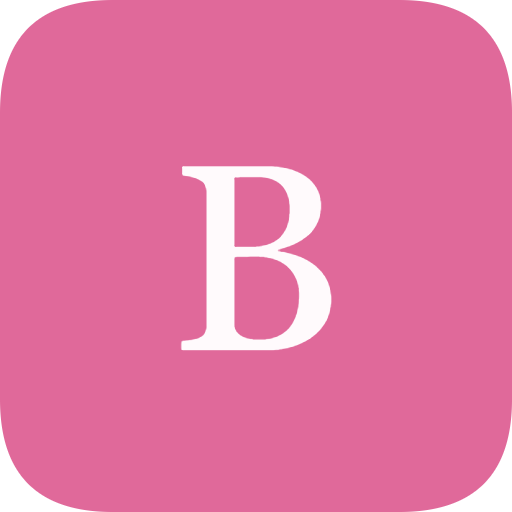
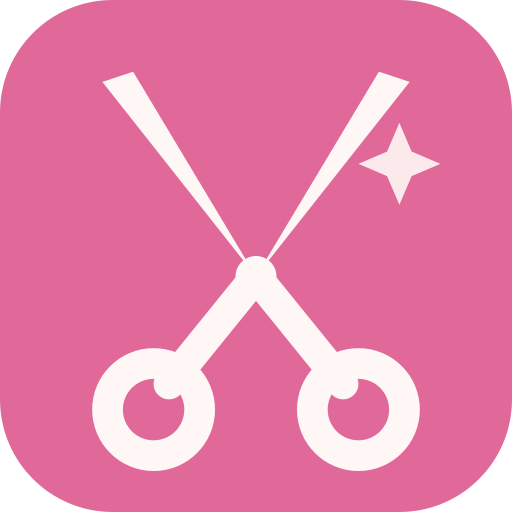
Round 2 feedback: real portfolio photo, updated payment handles, mobile polish
- Add real before/after color-transformation photos to Portfolio; drop the
  unfilled "coming soon" placeholder grid until more real shots exist
- Update Venmo/Cash App handles to Emma's real accounts; drop Zelle (she
  doesn't have one) and simplify Support accordingly
- Deep conditioning time estimate corrected to 10-15 min
- Warmer hero greeting ("Hi, I'm Emma!") instead of leading with a dash
- Fix QR code on the digital business card always rendering dark-on-white,
  regardless of site theme, so it stays visible and scannable in dark mode
- Fix the before/after slider's portrait aspect ratio and container sizing
  (previous 16:9 + fixed min-height fought each other on narrow phones)
- Mobile density pass: smaller section/card padding across Services,
  Booking, BusinessCard, Countdown, Reviews and Support so content reads
  tighter on phones
- New bespoke scissors PWA icon set (scripts/generate-icons.mjs + `npm run
  icons`) replacing the generic placeholder icons

diff --git a/src/data/portfolio.ts b/src/data/portfolio.ts
@@ -1,12 +1,23 @@
+import type { ImageMetadata } from 'astro';
+import colorBefore from '../assets/color-before.jpg';
+import colorAfter from '../assets/color-after.jpg';
+
 export type BeforeAfter = {
-  before: string;
-  after: string;
+  before: ImageMetadata;
+  after: ImageMetadata;
   alt: string;
   service: string;
 };
 
 /**
- * Empty until Emma has real before/after shots — the slider renders
- * placeholder panels until this has at least one pair.
+ * Empty renders placeholder panels in the slider — add pairs here as real
+ * before/after shots come in.
  */
-export const beforeAfterPairs: BeforeAfter[] = [];
+export const beforeAfterPairs: BeforeAfter[] = [
+  {
+    before: colorBefore,
+    after: colorAfter,
+    alt: 'Hair color transformation',
+    service: 'Color',
+  },
+];

diff --git a/src/data/payments.ts b/src/data/payments.ts
@@ -1,15 +1,10 @@
 export type PaymentMethod = {
-  method: 'Venmo' | 'Cash App' | 'Zelle';
+  method: 'Venmo' | 'Cash App';
   value: string;
-  href?: string;
+  href: string;
 };
 
-/**
- * Venmo and Cash App handles are placeholders from the design handoff —
- * confirm both with Emma before launch.
- */
 export const payments: PaymentMethod[] = [
-  { method: 'Venmo', value: '@Emma-Blasingame', href: 'https://venmo.com/u/Emma-Blasingame' },
-  { method: 'Cash App', value: '$emmablasingame', href: 'https://cash.app/$emmablasingame' },
-  { method: 'Zelle', value: '903-730-1234' },
+  { method: 'Venmo', value: '@Emma-Blasingame-2', href: 'https://venmo.com/u/Emma-Blasingame-2' },
+  { method: 'Cash App', value: '$EmmaBlasingame0', href: 'https://cash.app/$EmmaBlasingame0' },
 ];

diff --git a/src/data/services.ts b/src/data/services.ts
@@ -56,7 +56,7 @@ export const services: Service[] = [
     category: 'Treatment',
     title: 'Deep conditioning',
     description: 'Bond-building and moisture treatments with a scalp massage. Great paired with a dusting of the ends.',
-    duration: '45–75 min',
+    duration: '10–15 min',
     price: '$20',
   },
   {

diff --git a/src/styles/global.css b/src/styles/global.css
@@ -123,10 +123,10 @@ a:hover { color: var(--pink); }
 }
 
 .section {
-  padding: clamp(44px, 9vw, 132px) 0;
+  padding: clamp(32px, 9vw, 132px) 0;
 }
 .section-tight {
-  padding: clamp(34px, 7vw, 96px) 0;
+  padding: clamp(24px, 7vw, 96px) 0;
 }
 .section-band {
   background: var(--bg-2);

diff --git a/README.md b/README.md
@@ -37,22 +37,23 @@ No markup editing needed for day-to-day changes — everything content-shaped li
 - **`quiz.ts`** — the five hair-quiz questions/options and the recommendation rules. The rules
   are deliberately honest (e.g. box dye always gets a consultation, never a promised one-visit
   fix) — keep that intent if you edit the copy.
-- **`payments.ts`** — Venmo/Cash App/Zelle handles shown in the low-key Support section.
-  **The Venmo and Cash App handles are placeholders — confirm both with Emma before launch.**
+- **`payments.ts`** — Venmo/Cash App handles shown in the low-key Support section (real handles,
+  confirmed by Emma; no Zelle for now — she doesn't have one).
 - **`reviews.ts`** — approved reviews shown on the site. Leave empty until real reviews are
   approved; the empty state is intentional (see design handoff).
 - **`contact.ts`** — phone numbers, academy address, social links, and `gradLabel`/`gradTarget`
   (the graduation date — not a licensing date, since Emma won't know that until after she
   graduates). The live countdown reads `gradTarget` directly, so only edit it in one place.
-- **`portfolio.ts`** — before/after image pairs; empty renders the placeholder slider.
+- **`portfolio.ts`** — before/after image pairs (imported photos, optimized via `astro:assets`);
+  empty renders the placeholder slider. Currently has one real color-transformation pair.
 
 ## Open items before launch
 
 Carried over from the design handoff — see [`design/README.md`](./design/README.md) for full
 detail:
 
-- Confirm real Venmo/Cash App handles.
-- Add real before/after and portfolio photos.
+- Add more before/after and portfolio photos as Emma gets them — the "coming soon" grid was
+  removed for now rather than sit empty; bring it back once there's a second real example.
 - Decide whether to add any more academy price-sheet services (wax, perms, silk wrap, braids,
   roller set) beyond the ones already on the site — only what Emma explicitly asked for is in
   there so far.
@@ -64,7 +65,8 @@ detail:
 - Wire an online scheduler (Square/Acuity/GlowUp) into the dashed slot in Booking, or keep the
   `sms:`/`mailto:` flow as-is.
 - Pick a domain and update `site` in `astro.config.mjs`.
-- Replace the placeholder PWA icons with a real monogram/logo when Emma has one.
+- PWA icons are a bespoke scissors mark (see `scripts/generate-icons.mjs` — edit the SVG there
+  and run `npm run icons` to regenerate). Swap for a real monogram/logo if Emma gets one made.
 - Wire a real privacy-friendly analytics provider (Plausible/Umami) — `src/scripts/analytics.ts`
   is a no-op stub until a domain + script tag are added.
 
